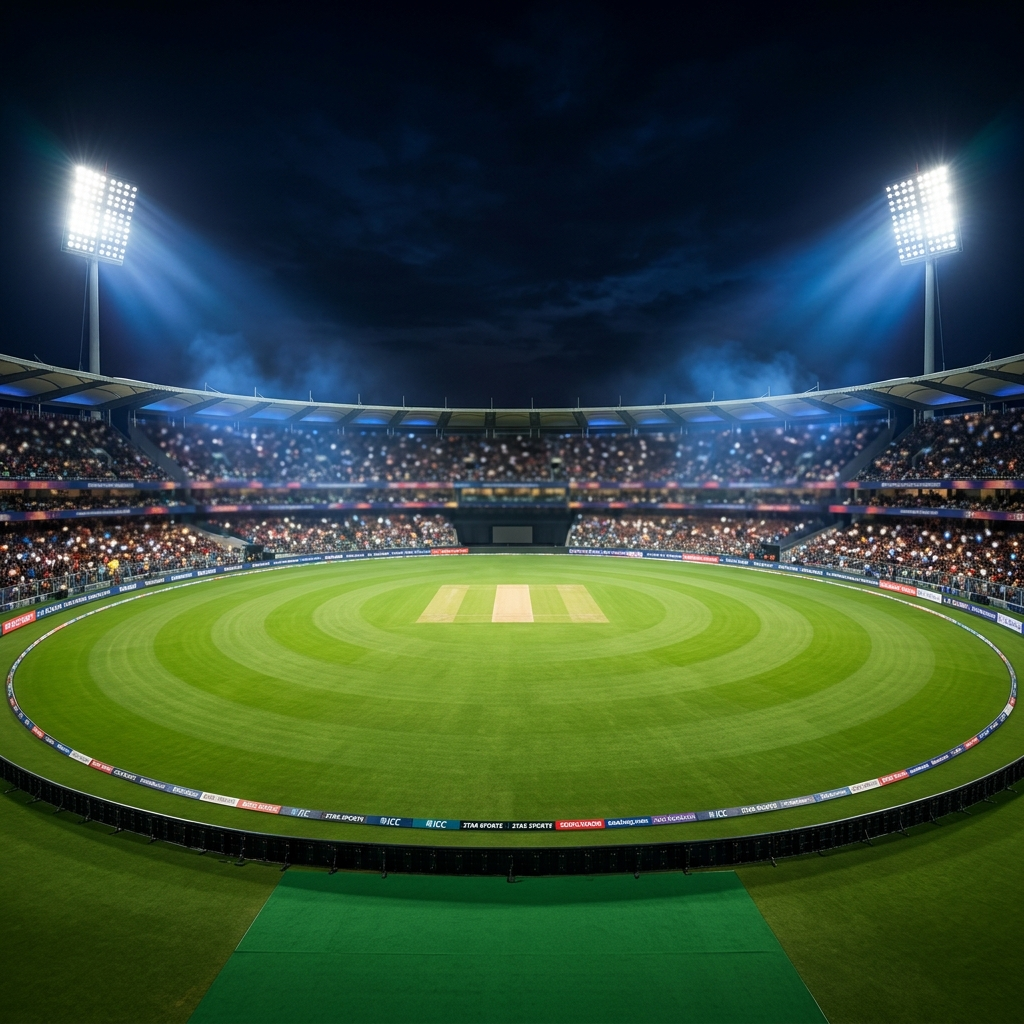
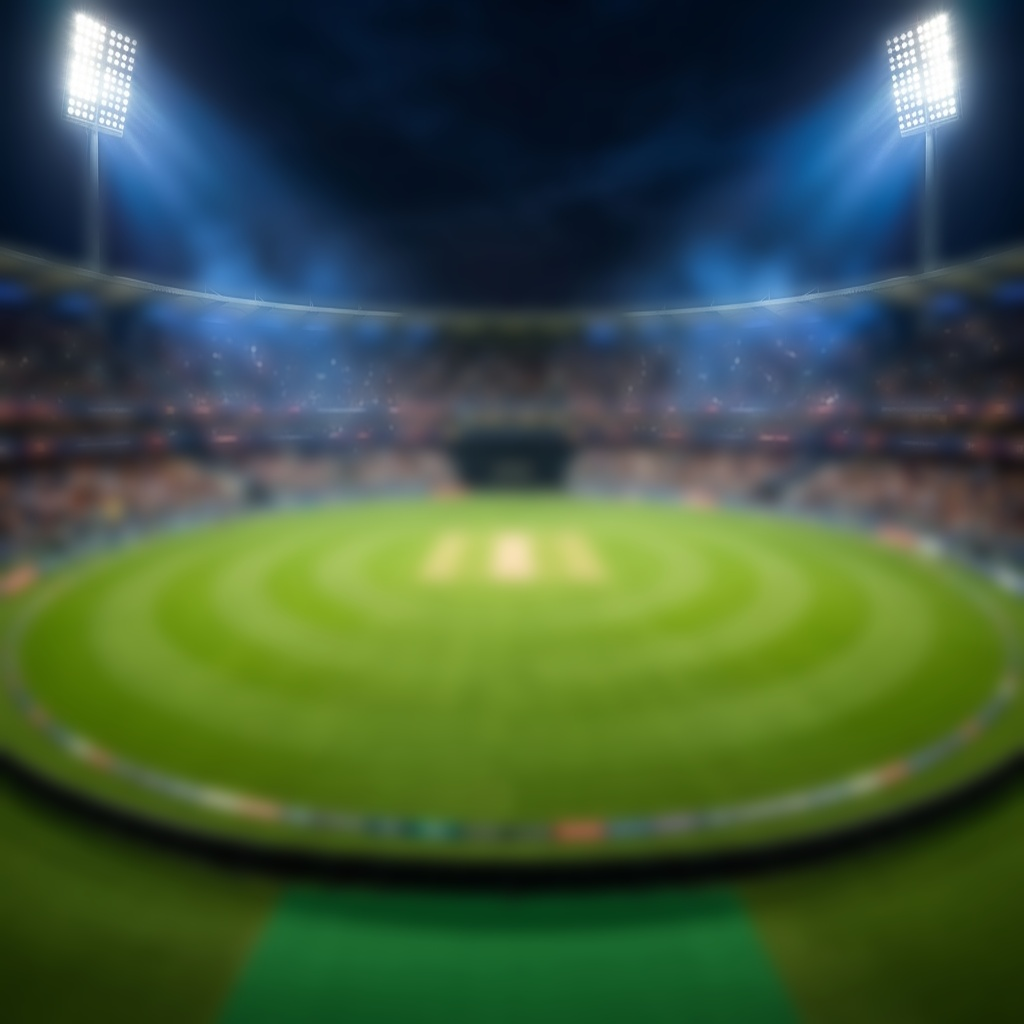
Fix all-out crash guard, clear stale no-ball celebration sync, and match realistic wagon wheel broadcast design

diff --git a/App.js b/App.js
@@ -6428,7 +6428,7 @@ function CricketAddaMain() {
 
   const modalBadgeW = Math.round(MODAL_WHEEL_SIZE * 0.165);
   const modalBadgeH = Math.round(MODAL_WHEEL_SIZE * 0.115);
-  const scorerWheelSize = Math.round(Math.min(width - 32, 310));
+  const scorerWheelSize = Math.round(Math.min(width - 24, 336));
   const scorerBadgeW = Math.round(scorerWheelSize * 0.205);
   const scorerBadgeH = Math.round(scorerWheelSize * 0.125);
 
@@ -9242,20 +9242,23 @@ function CricketAddaMain() {
       lastCelebrationIdRef.current = null;
     } else if ((!isSelfSender || viewerSimulated) && !isOfficialScorer) {
       // 1. Direct celebrationEvent payload from scorer or cloud sync
-      if (d.celebrationEvent && d.celebrationEvent.id && d.celebrationEvent.id !== lastCelebrationIdRef?.current) {
-        if (lastCelebrationIdRef) lastCelebrationIdRef.current = d.celebrationEvent.id;
-        const cType = (d.celebrationEvent.type === 'noBall' || d.celebrationEvent.type === 'nb' || d.celebrationEvent.type === 'NB')
-          ? 'no_ball'
-          : d.celebrationEvent.type;
-        triggerCelebration(
-          cType,
-          d.celebrationEvent.player,
-          d.celebrationEvent.runs,
-          true,
-          d.celebrationEvent.teamFlag || d.battingTeamFlag,
-          d.celebrationEvent.teamName || d.battingTeamName
-        );
+      if (d.celebrationEvent && d.celebrationEvent.id) {
+        if (d.celebrationEvent.id !== lastCelebrationIdRef?.current) {
+          if (lastCelebrationIdRef) lastCelebrationIdRef.current = d.celebrationEvent.id;
+          const cType = (d.celebrationEvent.type === 'noBall' || d.celebrationEvent.type === 'nb' || d.celebrationEvent.type === 'NB')
+            ? 'no_ball'
+            : d.celebrationEvent.type;
+          triggerCelebration(
+            cType,
+            d.celebrationEvent.player,
+            d.celebrationEvent.runs,
+            true,
+            d.celebrationEvent.teamFlag || d.battingTeamFlag,
+            d.celebrationEvent.teamName || d.battingTeamName
+          );
+        }
       } else {
+        if (lastCelebrationIdRef) lastCelebrationIdRef.current = null;
         // 2. Resilient Ball-by-Ball Delivery Stream Detection (4s, 6s, Wickets, No Balls)
         const deliveries = Array.isArray(d.scoringHistory) && d.scoringHistory.length > 0
           ? d.scoringHistory
@@ -9445,6 +9448,7 @@ function CricketAddaMain() {
         overs: payloadInnings === 2 ? payloadOvers : '0.0',
         balls: payloadInnings === 2 ? payloadBalls : 0,
       },
+      celebrationEvent: customPayload.celebrationEvent !== undefined ? customPayload.celebrationEvent : null,
       ...customPayload,
     };
 
@@ -15458,73 +15462,11 @@ function CricketAddaMain() {
               <Stop offset="65%" stopColor="#16a34a" stopOpacity={0.95} />
               <Stop offset="100%" stopColor="#15803d" stopOpacity={1} />
             </RadialGradient>
-            <LinearGradient id={`beamLeftGrad_${uniqueKey}_${dim}`} x1="0%" y1="0%" x2="70%" y2="80%">
-              <Stop offset="0%" stopColor="#38bdf8" stopOpacity={0.7} />
-              <Stop offset="30%" stopColor="#38bdf8" stopOpacity={0.35} />
-              <Stop offset="70%" stopColor="#38bdf8" stopOpacity={0.12} />
-              <Stop offset="100%" stopColor="#38bdf8" stopOpacity={0} />
-            </LinearGradient>
-            <LinearGradient id={`beamRightGrad_${uniqueKey}_${dim}`} x1="100%" y1="0%" x2="30%" y2="80%">
-              <Stop offset="0%" stopColor="#38bdf8" stopOpacity={0.7} />
-              <Stop offset="30%" stopColor="#38bdf8" stopOpacity={0.35} />
-              <Stop offset="70%" stopColor="#38bdf8" stopOpacity={0.12} />
-              <Stop offset="100%" stopColor="#38bdf8" stopOpacity={0} />
-            </LinearGradient>
-            <RadialGradient id={`floodGlow_${uniqueKey}_${dim}`} cx="50%" cy="50%" r="50%">
-              <Stop offset="0%" stopColor="#ffffff" stopOpacity={0.98} />
-              <Stop offset="35%" stopColor="#bae6fd" stopOpacity={0.75} />
-              <Stop offset="65%" stopColor="#38bdf8" stopOpacity={0.35} />
-              <Stop offset="100%" stopColor="#0284c7" stopOpacity={0} />
-            </RadialGradient>
           </Defs>
 
-          {/* Stadium Corner Floodlight Beams (Projecting from extreme corners) */}
-          <Polygon points="-146,-146 30,70 -40,145 -155,-60" fill={`url(#beamLeftGrad_${uniqueKey}_${dim})`} opacity={0.6} />
-          <Polygon points="146,-146 -30,70 40,145 155,-60" fill={`url(#beamRightGrad_${uniqueKey}_${dim})`} opacity={0.6} />
-
-          {/* Left Floodlight Tower (Touching Top-Left Corner) */}
-          <Circle cx="-146" cy="-146" r="26" fill={`url(#floodGlow_${uniqueKey}_${dim})`} />
-          <G transform="translate(-146, -146)">
-            <Line x1="0" y1="0" x2="-14" y2="-14" stroke="#475569" strokeWidth="3" />
-            <Rect x="-14" y="-10" width="28" height="20" rx="3" fill="#021329" stroke="#00f0ff" strokeWidth="1.5" transform="rotate(38)" />
-            {/* 12 LED Lamps */}
-            <Circle cx="-8" cy="-5" r="1.7" fill="#ffffff" />
-            <Circle cx="-3" cy="-5" r="1.7" fill="#ffffff" />
-            <Circle cx="3" cy="-5" r="1.7" fill="#ffffff" />
-            <Circle cx="8" cy="-5" r="1.7" fill="#ffffff" />
-            <Circle cx="-8" cy="0" r="1.7" fill="#ffffff" />
-            <Circle cx="-3" cy="0" r="1.7" fill="#ffffff" />
-            <Circle cx="3" cy="0" r="1.8" fill="#ffffff" />
-            <Circle cx="8" cy="0" r="1.8" fill="#ffffff" />
-            <Circle cx="-8" cy="5" r="1.7" fill="#ffffff" />
-            <Circle cx="-3" cy="5" r="1.7" fill="#ffffff" />
-            <Circle cx="3" cy="5" r="1.7" fill="#ffffff" />
-            <Circle cx="8" cy="5" r="1.7" fill="#ffffff" />
-          </G>
-
-          {/* Right Floodlight Tower (Touching Top-Right Corner) */}
-          <Circle cx="146" cy="-146" r="26" fill={`url(#floodGlow_${uniqueKey}_${dim})`} />
-          <G transform="translate(146, -146)">
-            <Line x1="0" y1="0" x2="14" y2="-14" stroke="#475569" strokeWidth="3" />
-            <Rect x="-14" y="-10" width="28" height="20" rx="3" fill="#021329" stroke="#00f0ff" strokeWidth="1.5" transform="rotate(-38)" />
-            {/* 12 LED Lamps */}
-            <Circle cx="-8" cy="-5" r="1.7" fill="#ffffff" />
-            <Circle cx="-3" cy="-5" r="1.7" fill="#ffffff" />
-            <Circle cx="3" cy="-5" r="1.7" fill="#ffffff" />
-            <Circle cx="8" cy="-5" r="1.7" fill="#ffffff" />
-            <Circle cx="-8" cy="0" r="1.7" fill="#ffffff" />
-            <Circle cx="-3" cy="0" r="1.7" fill="#ffffff" />
-            <Circle cx="3" cy="0" r="1.8" fill="#ffffff" />
-            <Circle cx="8" cy="0" r="1.8" fill="#ffffff" />
-            <Circle cx="-8" cy="5" r="1.7" fill="#ffffff" />
-            <Circle cx="-3" cy="5" r="1.7" fill="#ffffff" />
-            <Circle cx="3" cy="5" r="1.7" fill="#ffffff" />
-            <Circle cx="8" cy="5" r="1.7" fill="#ffffff" />
-          </G>
-
-          {/* 1. Solid Vibrant Cyan Outer Boundary (NO TRANSPARENCY!) */}
+          {/* 1. Dual Boundary Rings: Outer Solid Neon Cyan & Inner Gold Rope (NO TRANSPARENCY!) */}
           <Circle cx="0" cy="0" r="143" fill="none" stroke="#00f0ff" strokeWidth="3" />
-          <Circle cx="0" cy="0" r="140" fill="#15803d" stroke="#38bdf8" strokeWidth="2.5" />
+          <Circle cx="0" cy="0" r="140" fill="#15803d" stroke="#facc15" strokeWidth="2.8" />
 
           {/* 2. Concentric Mowed Lawn Outfield Rings (Radius 140 down to 32) */}
           <Circle cx="0" cy="0" r="122" fill="#16a34a" />

diff --git a/firebaseSync.js b/firebaseSync.js
@@ -631,6 +631,11 @@ export async function syncMatchToFirebaseDirect(matchId, matchState) {
     delete payload.liveOvers;
     delete payload.scoringHistory; // Deliveries live under /balls
 
+    // Explicitly nullify celebrationEvent if not present so stale celebrations (like No Ball) never linger
+    if (payload.celebrationEvent === undefined) {
+      payload.celebrationEvent = null;
+    }
+
     await update(ref(db, `matches/${id}`), payload);
     return true;
   } catch (err) {
